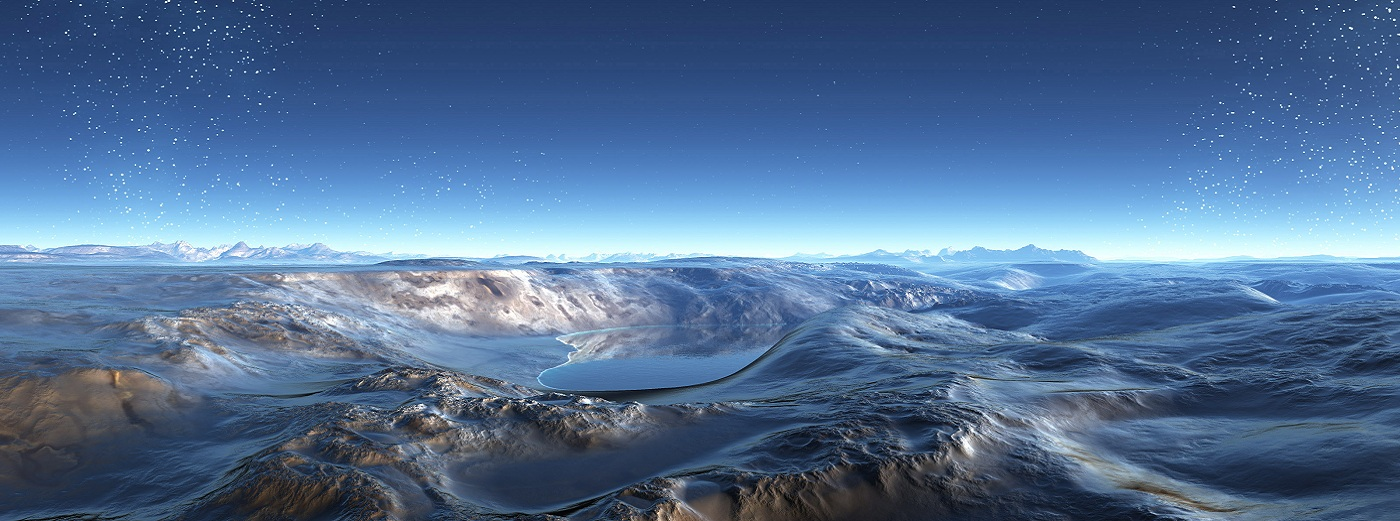
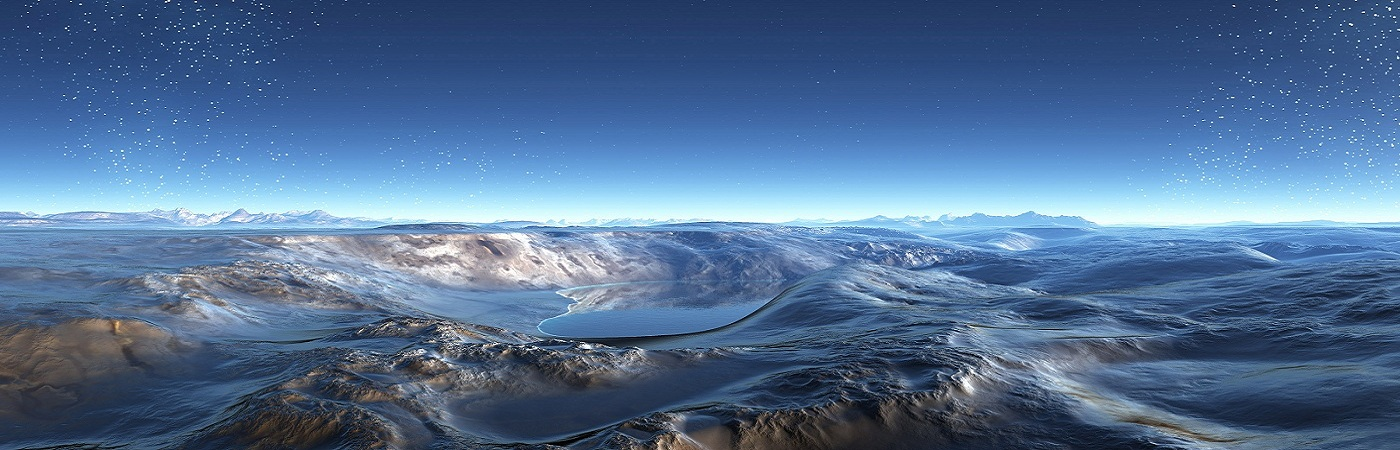
11

diff --git a/css/home_page.css b/css/home_page.css
@@ -1,8 +1,11 @@
 @CHARSET "UTF-8";
 /* home_page */
-
-#english{
-	color: white;
+html{
+	background-color: #F8F8F8;
+}
+.carousel-label{
+	position: absolute;
+	top: 45%;
 }
 #content{
 	margin-top: 0px;
@@ -38,11 +41,24 @@
 
 /* header */
 #top{
-	height: 30px;
-	background: gray;
-	width: 100%;
-	padding-top: 5px;
-	padding-right: 15px;
+}
+#navbar{
+	margin-bottom: 5px;
+}
+#mailto{
+	position: absolute;
+	right: 200px;
+	font-family: "Times New Roman","Microsoft YaHei",LiSu;
+	font-size: 16px;
+	color: #9B0512;
+}
+#english{
+	color: #9B0512;
+	font-family: "Times New Roman","Microsoft YaHei",LiSu;
+	font-size: 16px;
+}
+#english p{
+	margin-bottom: 0;
 }
 #img_logo{
 	margin-top:-16px;
@@ -51,14 +67,32 @@
 	max-height:100px
 }
 #caidan{
-	padding-top: 7px;
-	margin-left: 180px;
+	float: left;
+}
+#caidan ul li{
+	font-family: STKaiti,"Microsoft YaHei",LiSu;
+	font-size: 16px;
+	font-weight: bold;
+}
+#caidan ul li a p{
+	margin-bottom: 0;
+}
+.navbar-default .navbar-nav li a {
+  color: black;
+}
+#navbar-left{
+	border: none;
+	margin-bottom1: 0;
+	position: relative;
+}
+.navbar{
+	margin-bottom: 0;
+	background-color: #F5F5F5;
 }
 .guangfu_li{
 	width: 100px;
 }
 .guangfu_li p{
-
 }
 .our_contact{
 	height: 320px;
@@ -74,9 +108,24 @@
 
 /* footer */
 .gh-columns{
-
 	min-height: 240px;
-
+	position: relative;
+	top: 20px;
+}
+.gh-columns_ul{
+	min-width: 800px;
+	margin: 0 auto;
+}
+.gh-columns_ul li p{
+	font-family: STKaiti,"Microsoft YaHei",LiSu;
+	font-size: 16px;
+	font-weight: bold;
+	padding-left: 40px;
+}
+.gh-columns_ul li ul li a{
+	font-family: STKaiti,"Microsoft YaHei",LiSu;
+	font-size: 14px;
+	font-weight: normal;
 }
 .gh-footer{
 
@@ -87,7 +136,7 @@
 }
 
 .footer_ul{
-	width: 200px;
+	max-width: 180px;
 	position: relative;
 	color: #DA261D;
 }
@@ -105,11 +154,16 @@
 #footer{
 	position: relative;
 }
-
-.footer{
-	min-width: 1250px;
+#footer ul li a{
+	font-family: STKaiti,"Microsoft YaHei",LiSu;
+	font-size: 14px;
+	font-weight: normal;
 }
-
+#footer p{
+	font-family: STKaiti,"Microsoft YaHei",LiSu;
+	font-size: 14px;
+	font-weight: normal;	
+}
 #footer ul{
 	width: 334px;
 	margin: 0 auto;

diff --git a/application/views/footer.php b/application/views/footer.php
@@ -1,7 +1,76 @@
 <!-- <p class="page-header"></p> -->
 <div class="container footer">
-	<div class="gh-columns row-fluid">
-		<div class="footer_ul col-lg-2">
+	<div class="gh-columns pull-center">
+		<ul class="list-inline gh-columns_ul">
+			<li class="footer_ul col-lg-2">
+				<p>关于IBM</p>
+				<ul>
+					<li><a href="http://www.ibm.com/ibm/cn/city/index.shtml?re=richfooter&amp;lnk=fai-onbr-cnzh" tabindex="0">在线分公司</a></li>
+					<li><a href="http://www.ibm.com/news/cn/zh/?lnk=fai-hone-cnzh" tabindex="0">热点新闻</a></li>
+					<li><a href="http://www.ibm.com/ibm/cn/zh/?lnk=fai-ibch-cnzh" tabindex="0">IBM 在中国</a></li>
+					<li><a href="http://www.ibm.com/ibm/cn/ibm100/?lnk=fai-ibce-cnzh" tabindex="0">IBM 百年</a></li>
+					<li><a href="http://research.ibm.com/labs/china/index.shtml" tabindex="0">IBM 中国研究院 （英文）</a></li>
+					<li><a href="http://www.ibm.com/ibm/cn/cdl/index.shtml?lnk=fai-icdc-cnzh" tabindex="0">IBM 中国开发中心</a></li>
+					<li><a href="http://www.ibm.com/ibm/cn/corporateresponsibility/index.shtml?lnk=fai-csre-cnzh" tabindex="0">企业责任</a></li>
+				</ul>
+			</li>
+			<li class="footer_ul col-lg-2" aria-label="提供信息给">
+				<p>提供信息</p>
+				<ul>
+					<li><a href="http://www.ibm.com/services/cn/c-suite/?lnk=fpi-bidm-cnzh" tabindex="0">业务及 IT 决策者</a></li>
+					<li><a href="http://www.ibm.com/solutions/cn/industries/?re=footer&amp;lnk=fpi-indu-cnzh" tabindex="0">行业</a></li>
+					<li><a href="http://www.ibm.com/midmarket/cn/zh/?lnk=fpi-grbu-cnzh" tabindex="0">中小企业</a></li>
+					<li><a href="http://www.ibm.com/developerworks/cn/?lnk=fpi-deve-cnzh" tabindex="0">开发人员</a></li>
+					<li><a href="http://www.ibm.com/ibm/cn/partner/?lnk=fpi-bupa-cnzh" tabindex="0">业务合作伙伴</a></li>
+					<li><a href="http://www.ibm.com/employment/cn/?lnk=fpi-jose-cnzh" tabindex="0">求职者</a></li>
+				</ul>
+			</li>
+			<li class="footer_ul col-lg-2" aria-label="特色主题">
+				<p>特色主题</p>
+				<ul>
+					<li><a href="http://www.ibm.com/smarterplanet/cn/zh/?lnk=fto-smpl-cnzh" tabindex="0">智慧的地球</a></li>
+					<li><a href="http://www.ibm.com/cloud-computing/cn/zh/index.html?re=masthead&amp;lnk=fto-clco-cnzh" tabindex="0">云计算</a></li>
+					<li><a href="http://www.ibm.com/ibm/cn/bda/?re=footer" tabindex="0">大数据与分析</a></li>
+					<li><a href="http://www.ibm.com/systems/data/flash/cn/smartercomputing/index.html?lnk=fto-cowi-cnzh" tabindex="0">智慧的运算</a></li>
+					<li><a href="http://www.ibm.com/smarterplanet/cn/zh/smarter_cities/overview/" tabindex="0">智慧的城市</a></li>
+					<li><a href="http://www.ibm.com/software/cn/smartercommerce/index.html?lnk=fto-wibu-cnzh" tabindex="0">智慧的商务</a></li>
+					<li><a href="http://www.ibm.com/software/products/cn/zh/category/SWD00?re=footer_topic" tabindex="0">社交商务</a></li>
+					<li><a href="http://www.ibm.com/software/cn/smartwork/mobility.html?re=footer_topic" tabindex="0">企业移动应用</a></li>
+				</ul>
+			</li>
+			<li class="footer_ul col-lg-2" aria-label="联系我们">
+				<p>联系我们</p>
+				<ul>
+					<li><a href="https://www.ibm.com/account/myibm/profile.do?cc=cn&amp;lc=zh?lnk=fcu-cmac-cnzh" tabindex="0">创建我的账户</a></li>
+					<li><a href="https://www.ibm.com/communities/service/html/allcommunities?lnk=fcu-comm-cnzh" tabindex="0">社区 （英文）</a></li>
+					<li><a href="//www.ibm.com/events/cn/index.shtml" tabindex="0">市场活动及视频</a></li>
+					<li><a href="http://www.ibm.com/contact/employees/cn/?lnk=fcu-emdi-cnzh" tabindex="0">雇员目录</a></li>
+				</ul>
+			</li>
+			<li class="footer_ul col-lg-2" aria-label="选购">
+				<p>选购&nbsp;&nbsp;&nbsp;&nbsp;&nbsp;&nbsp;</p>
+				<ul>
+					<li><a href="//www.ibm.com/products/specialoffers/cn/zh/index.html" tabindex="0">特惠方案</a></li>
+					<li><a href="http://www.ibm.com/software/cn/popularproducts/index.html?re=ibmhpfooter" tabindex="0">主流软件</a></li>
+					<li><a href="http://www.ibm.com/systems/cn/promotion/esg/xseries/index.shtml?re=masthead&amp;lnk=fch-lepr-cnzh" tabindex="0">中低端产品</a></li>
+					<li><a href="http://www.ibm.com/financing/cn/zh/index.html?lnk=fch-file-cnzh" tabindex="0">融资租赁</a></li>
+					<li><a href="http://www.ibm.com/services/cn/gts/tss/index.html?lnk=fch-tsse-cnzh" tabindex="0">技术支持服务</a></li>
+					<li><a href="http://www.ibm.com/connect/ibm/cn/zh/?lnk=fch-fasr-cnzh" tabindex="0">查找业务代表</a></li>
+					<li><a href="http://www.ibm.com/partnerworld/wps/bplocator/search.jsp?search_cc=cn?lnk=fch-fapa-cnzh" tabindex="0">查找合作伙伴 (英文)</a></li>
+				</ul>
+			</li>
+			<li class="footer_ul col-lg-2" aria-label="常用链接">
+				<p>常用链接</p>
+				<ul>
+					<li><a href="http://www.ibm.com/systems/cn/power/solutions/watson/" tabindex="0">沃森</a></li>
+					<li><a href="http://www.ibm.com/ibm100/us/en/?lnk=ful-ibmc-cnzh" tabindex="0">IBM100 (英文)</a></li>
+					<li><a href="http://www.ibm.com/software/cn/?lnk=ful-soft-cnzh" tabindex="0">软件</a></li>
+					<li><a href="http://www.ibm.com/systems/cn/x/?lnk=ful-sysx-cnzh" tabindex="0">System x</a></li>
+					<li><a href="http://www.ibm.com/employment/cn/?lnk=ful-jono-cnzh" tabindex="0">求才启事</a></li>
+				</ul>
+			</li>
+		</ul>
+		<!-- <div class="footer_ul col-lg-2">
 			<h3 class="text-center">关于IBM</h3>
 			<ul>
 				<li><a href="http://www.ibm.com/ibm/cn/city/index.shtml?re=richfooter&amp;lnk=fai-onbr-cnzh" tabindex="0">在线分公司</a></li>
@@ -67,16 +136,16 @@
 				<li><a href="http://www.ibm.com/systems/cn/x/?lnk=ful-sysx-cnzh" tabindex="0">System x</a></li>
 				<li><a href="http://www.ibm.com/employment/cn/?lnk=ful-jono-cnzh" tabindex="0">求才启事</a></li>
 			</ul>
-		</div>
+		</div> -->
 	</div>
 	<div class="page-header-hi">
 	<p class="page-header"></p>
 	</div>
 	<div class="container1 gh-footer">
 		<div class="navbar" id="footer">
-			<ul class="list-inline pull-center">
-				<li class=""><a style="color: black;" href="#" rel="nofollow">法律声明</a>&nbsp;&nbsp;|&nbsp;&nbsp;</li>
-				<li class=""><a style="color: black;" href="#" rel="nofollow">隐私保护</a>&nbsp;&nbsp;|&nbsp;&nbsp;</li>
+			<ul class="list-inline">
+				<li class=""><a style="color: black;" href="#">法律声明</a>&nbsp;&nbsp;|&nbsp;&nbsp;</li>
+				<li class=""><a style="color: black;" href="#">隐私保护</a>&nbsp;&nbsp;|&nbsp;&nbsp;</li>
 				<li class=""><a style="color: black;" href="#" >联系我们</a>&nbsp;&nbsp;|&nbsp;&nbsp;</li>
 				<li class=""><a style="color: black;" href="#" >网站地图</a></li>
 			</ul>
@@ -102,37 +171,37 @@
 				document.getElementById("taiyangneng").setAttribute("style","border-right: 1px solid #e5e5e5;border-left: 1px solid #e5e5e5;color: red;font-style:bold;");
 			};
 			document.getElementById("taiyangneng").onmouseout=function(){
-				document.getElementById("taiyangneng").setAttribute("style","color: #777777;");
+				document.getElementById("taiyangneng").setAttribute("style","color: black;");
 			};
 			document.getElementById("diandongqiche").onmouseover=function(){
 				document.getElementById("diandongqiche").setAttribute("style","border-right: 1px solid #e5e5e5;border-left: 1px solid #e5e5e5;color:red;font-style:bold;");
 			};
 			document.getElementById("diandongqiche").onmouseout=function(){
-				document.getElementById("diandongqiche").setAttribute("style","color: #777777;");
+				document.getElementById("diandongqiche").setAttribute("style","color: black;");
 			};
 			document.getElementById("qiyezixun").onmouseover=function(){
 				document.getElementById("qiyezixun").setAttribute("style","border-right: 1px solid #e5e5e5;border-left: 1px solid #e5e5e5;color:red;font-style:bold;");
 			};
 			document.getElementById("qiyezixun").onmouseout=function(){
-				document.getElementById("qiyezixun").setAttribute("style","color: #777777;");
+				document.getElementById("qiyezixun").setAttribute("style","color: black;");
 			};
 			document.getElementById("jishuzhichi").onmouseover=function(){
 				document.getElementById("jishuzhichi").setAttribute("style","border-right: 1px solid #e5e5e5;border-left: 1px solid #e5e5e5;color:red;font-style:bold;");
 			};
 			document.getElementById("jishuzhichi").onmouseout=function(){
-				document.getElementById("jishuzhichi").setAttribute("style","color: #777777;");
+				document.getElementById("jishuzhichi").setAttribute("style","color: black;");
 			};
 			document.getElementById("lianxiwomen").onmouseover=function(){
 				document.getElementById("lianxiwomen").setAttribute("style","border-right: 1px solid #e5e5e5;border-left: 1px solid #e5e5e5;color:red;font-style:bold;");
 			};
 			document.getElementById("lianxiwomen").onmouseout=function(){
-				document.getElementById("lianxiwomen").setAttribute("style","color: #777777;");
+				document.getElementById("lianxiwomen").setAttribute("style","color: black;");
 			};
 			document.getElementById("jiaruwomen").onmouseover=function(){
 				document.getElementById("jiaruwomen").setAttribute("style","border-right: 1px solid #e5e5e5;border-left: 1px solid #e5e5e5;color:red;font-style:bold;");
 			};
 			document.getElementById("jiaruwomen").onmouseout=function(){
-				document.getElementById("jiaruwomen").setAttribute("style","color: #777777;");
+				document.getElementById("jiaruwomen").setAttribute("style","color: black;");
 			};
 		};
 /*  		function dropdownOpen1() {

diff --git a/application/views/home_page.php b/application/views/home_page.php
@@ -1,21 +1,18 @@
- 		<div id="content"> 
-			<div id="myCarousel" class="carousel slide" align="center">
-				<ol class="carousel-indicators">
-					<li data-target="#myCarousel" data-slide-to="0" class="active"></li>
-					<li data-target="#myCarousel" data-slide-to="1"></li>
-					<li data-target="#myCarousel" data-slide-to="2"></li>
-				</ol>
-				<!-- Carousel items -->
+ <div id="content"> 
+	<div id="myCarousel" class="carousel slide" align="center">
+		<ol class="carousel-indicators">
+			<li data-target="#myCarousel" data-slide-to="0" class="active"></li>
+			<li data-target="#myCarousel" data-slide-to="1"></li>
+			<li data-target="#myCarousel" data-slide-to="2"></li>
+		</ol>
+		<!-- Carousel items -->
 		<div class="carousel-inner">
 			<div class="item active" >
-				<img class="img-polaroid1"
-					src="<?php echo base_url().'img/bootstrap-mdo-sfmoma-04.jpg'?>"
+				<img style="position: relative;" class="img-polaroid1"
+					src="<?php echo base_url().'img/bootstrap-mdo-sfmoma-04-new.jpg'?>"
 					 alt="">
 				<div class="carousel-caption">
-					<h4>First Thumbnail label</h4>
-					<p>Cras justo odio, dapibus ac facilisis in, egestas eget quam.
-						Donec id elit non mi porta gravida at eget metus. Nullam id
-						dolor id nibh ultricies vehicula ut id elit.</p>
+					
 				</div>
 			</div>
 			<div class="item">
@@ -29,8 +26,8 @@
 		</div>
 		<!-- Carousel nav -->
 		<a class="carousel-control left" href="#myCarousel"
-			data-slide="prev">&lsaquo;</a>
+			data-slide="prev"><label class="carousel-label">&lsaquo;</label></a>
 		<a class="carousel-control right" href="#myCarousel"
-			data-slide="next">&rsaquo;</a>
+			data-slide="next"><label class="carousel-label">&rsaquo;</label></a>
 	</div>
 </div>

diff --git a/application/views/header.php b/application/views/header.php
@@ -16,13 +16,18 @@
 <!-- <body> -->
 <body class="" id="page-homepage">
 	<!-- 导航栏  -->
-	<div class="" id="top">
-		<a class="" id="english" href="#"><p class="text-right">English</p></a>
+	<div class="container" id="top">
+		
+			<a id="mailto" href="mailto:#">guohan@163.com</a>
+		
+		
+			<a class="" id="english" href="#"><p class="text-right">English</p></a>
+		
 	</div>
-	<div class="container1" style="height: 69px;">
-		<nav class="navbar navbar-default navbar-inverse1" role="navigation">
+	<div class="container" id="navbar">
+		<nav class="navbar navbar-default navbar-inverse1" id="navbar-left" role="navigation">
 			<!-- Brand and toggle get grouped for better mobile display -->
-			<div class="navbar-header1">
+			<div class="">
 				<a class="navbar-brand" href="<?php echo base_url()?>"><img id="img_logo" alt="logo" src="<?php echo base_url().'img/gh_logo.png'?>"></a>
 			</div>
 
